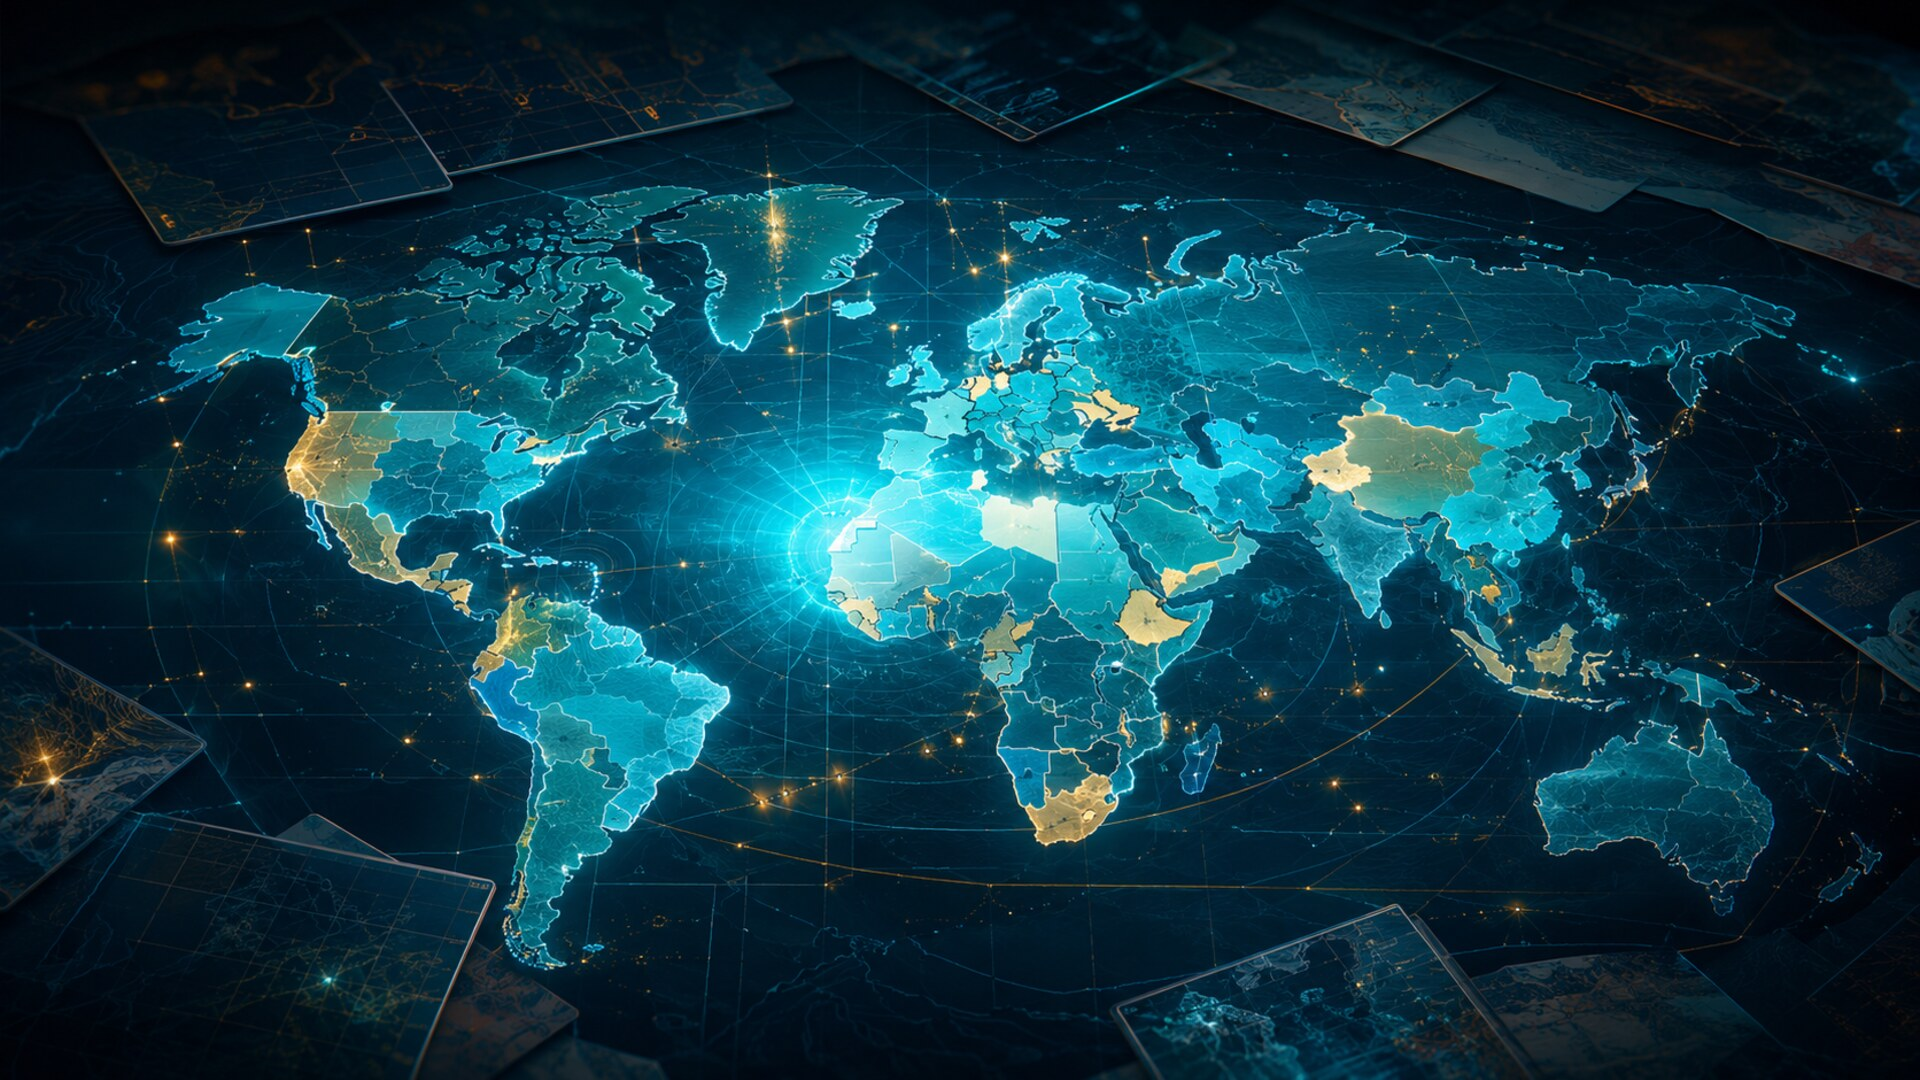
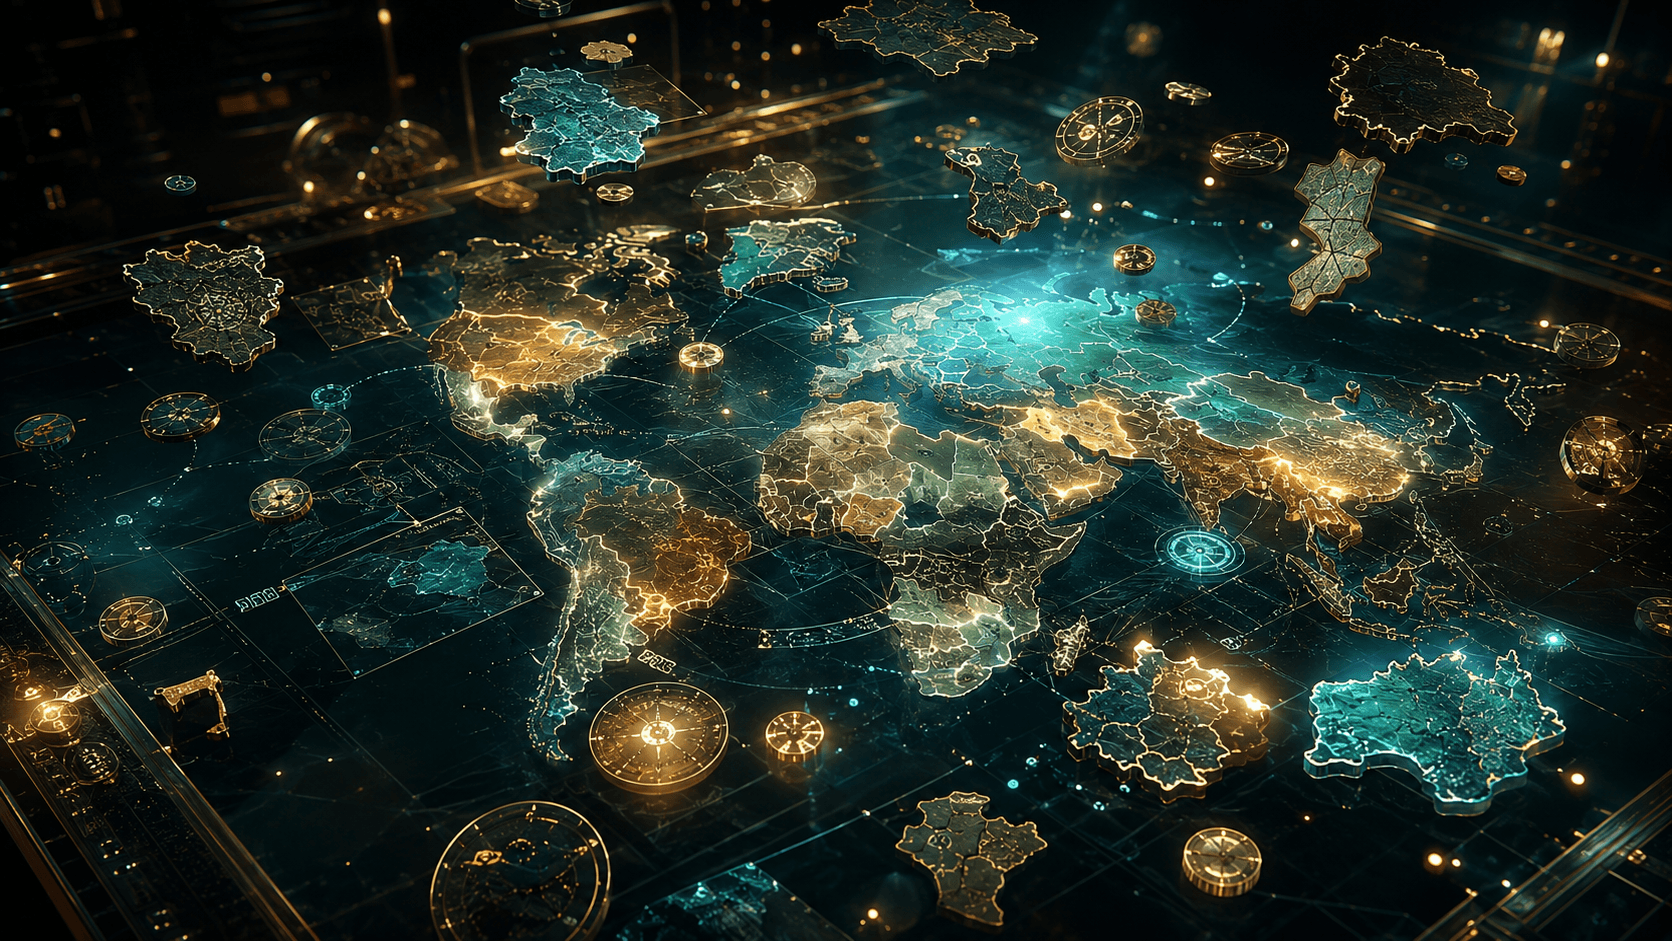
feat: wire multi-scene homepage hero video

diff --git a/src/styles/globals.css b/src/styles/globals.css
@@ -490,7 +490,6 @@ button:disabled {
   overflow: hidden;
   background:
     url("/worldprint/hero-poster.jpg") center / cover no-repeat,
-    url("/images/homepage/can-you-geo-cinematic-hero.png") center / cover no-repeat,
     radial-gradient(circle at 76% 42%, rgb(215 168 75 / 0.16), transparent 21rem),
     linear-gradient(115deg, #061316 0%, #08181d 48%, #0d2429 100%);
 }
@@ -507,8 +506,7 @@ button:disabled {
 
 .landing-hero-poster {
   background:
-    url("/worldprint/hero-poster.jpg") center / cover no-repeat,
-    url("/images/homepage/can-you-geo-cinematic-hero.png") center / cover no-repeat;
+    url("/worldprint/hero-poster.jpg") center / cover no-repeat;
 }
 
 .landing-hero::after {

diff --git a/tests/e2e/worldprint.spec.ts b/tests/e2e/worldprint.spec.ts
@@ -237,7 +237,7 @@ test("landing cinematic hero replaces the fake gameplay panel", async ({ page })
     "src",
     "/worldprint/hero-loop.webm"
   );
-  await expect(page.locator('.landing-hero-video source[src="/images/homepage/can-you-geo-cinematic-hero-720p.mp4"]')).toHaveCount(1);
+  await expect(page.locator('.landing-hero-video source[src="/worldprint/hero-loop.mp4"]')).toHaveCount(1);
   expect(await page.evaluate(() => document.documentElement.scrollWidth > window.innerWidth)).toBe(false);
 });
 
@@ -253,7 +253,7 @@ test("landing cinematic hero respects reduced-motion without layout overflow", a
   await expect(poster).toBeVisible();
   const posterBackground = await poster.evaluate((element) => window.getComputedStyle(element).backgroundImage);
   expect(posterBackground).toContain("/worldprint/hero-poster.jpg");
-  expect(posterBackground).toContain("/images/homepage/can-you-geo-cinematic-hero.png");
+  expect(posterBackground).not.toContain("/images/homepage/can-you-geo-cinematic-hero.png");
   expect(await page.evaluate(() => document.documentElement.scrollWidth > window.innerWidth)).toBe(false);
 });
 

diff --git a/docs/PRESENTATION_ASSETS.md b/docs/PRESENTATION_ASSETS.md
@@ -9,9 +9,9 @@ Use these optional static assets to upgrade the homepage, Mystery Map lobby, and
 - `public/worldprint/hero-poster.jpg`
 - Recommended size: 1920x1080, 16:9
 - Recommended length: 8-12 seconds, seamless loop
-- Target weight: under 4 MB per video format
+- Target weight: keep each optimized public video comfortably below 10 MB; keep source/intermediate renders outside `public/`
 - Visual direction: cinematic dark world map, glowing choropleth countries, clue/score energy, atmospheric atlas-grid motion
-- Current fallback: `public/images/homepage/can-you-geo-cinematic-hero-720p.mp4` and `public/images/homepage/can-you-geo-cinematic-hero.png`
+- Current fallback: `public/worldprint/hero-poster.jpg`
 
 ## Lobby Hero Loop
 